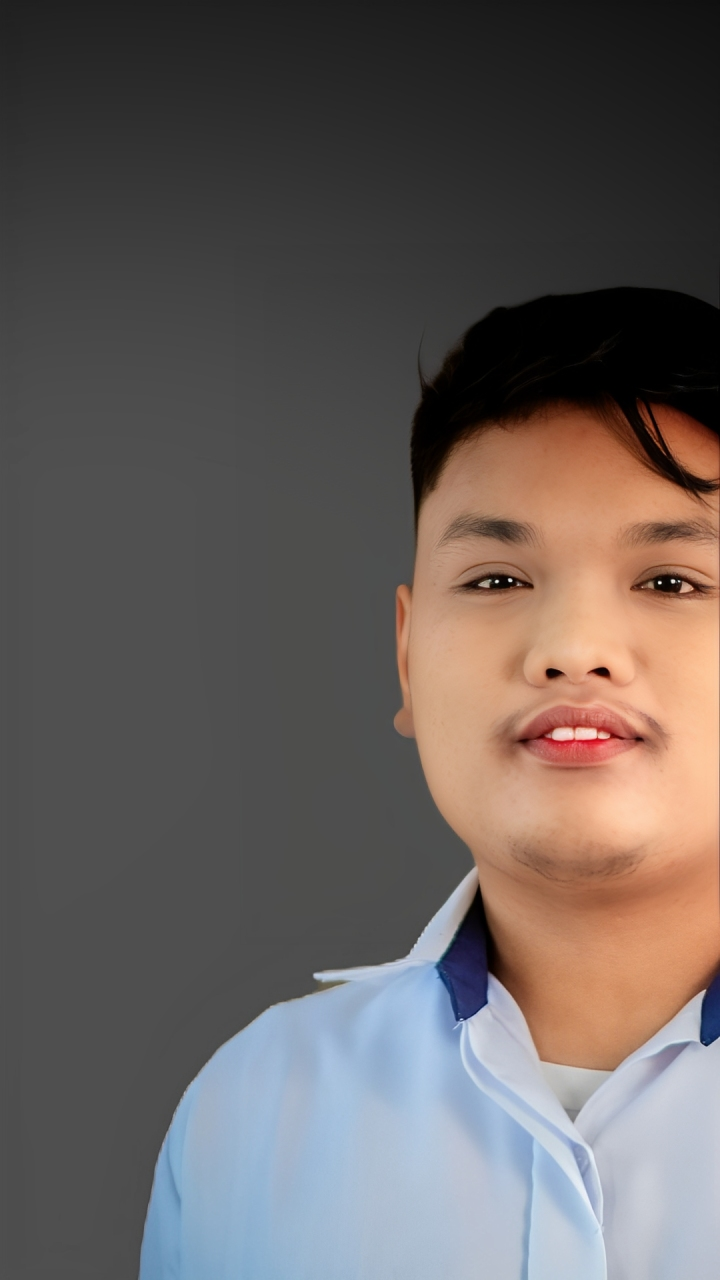
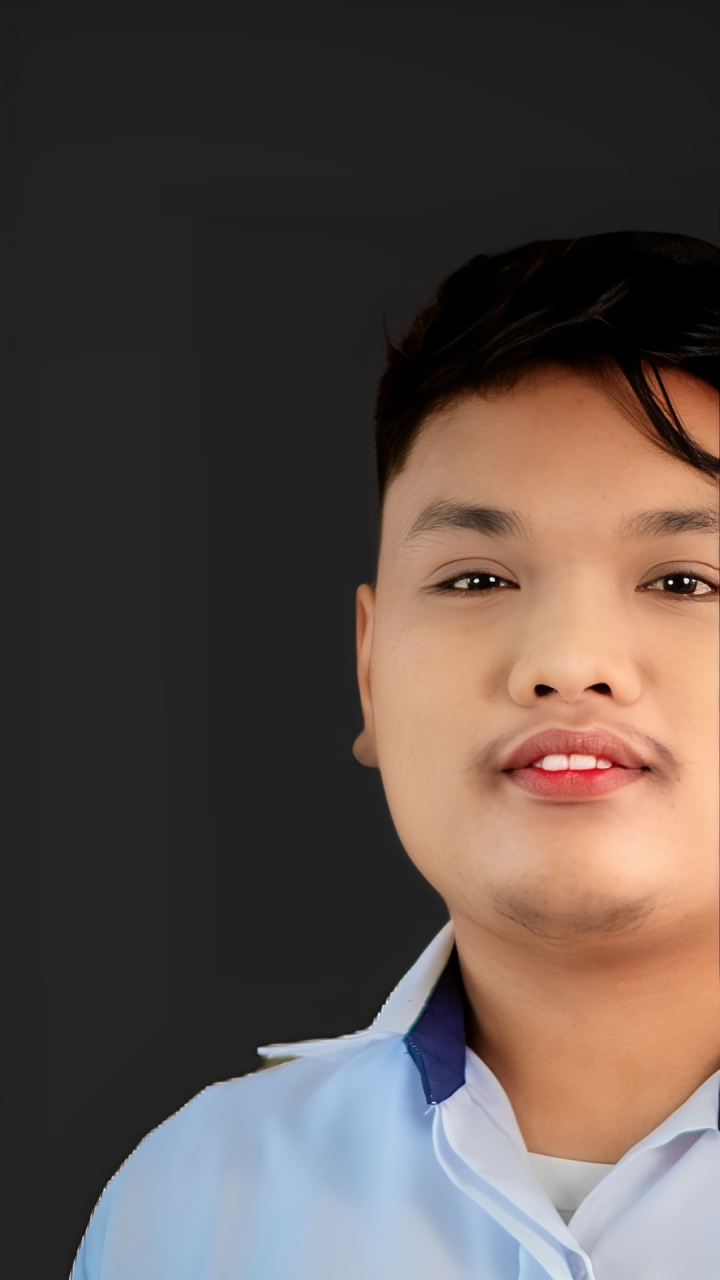
up

diff --git a/Personal Portfolio/style.css b/Personal Portfolio/style.css
@@ -5,7 +5,7 @@
 	box-sizing: border-box;
 }
 body{
-	background-color: #252525;
+	background-color: #242424;
 	color: #fff;
 }
 #header{
